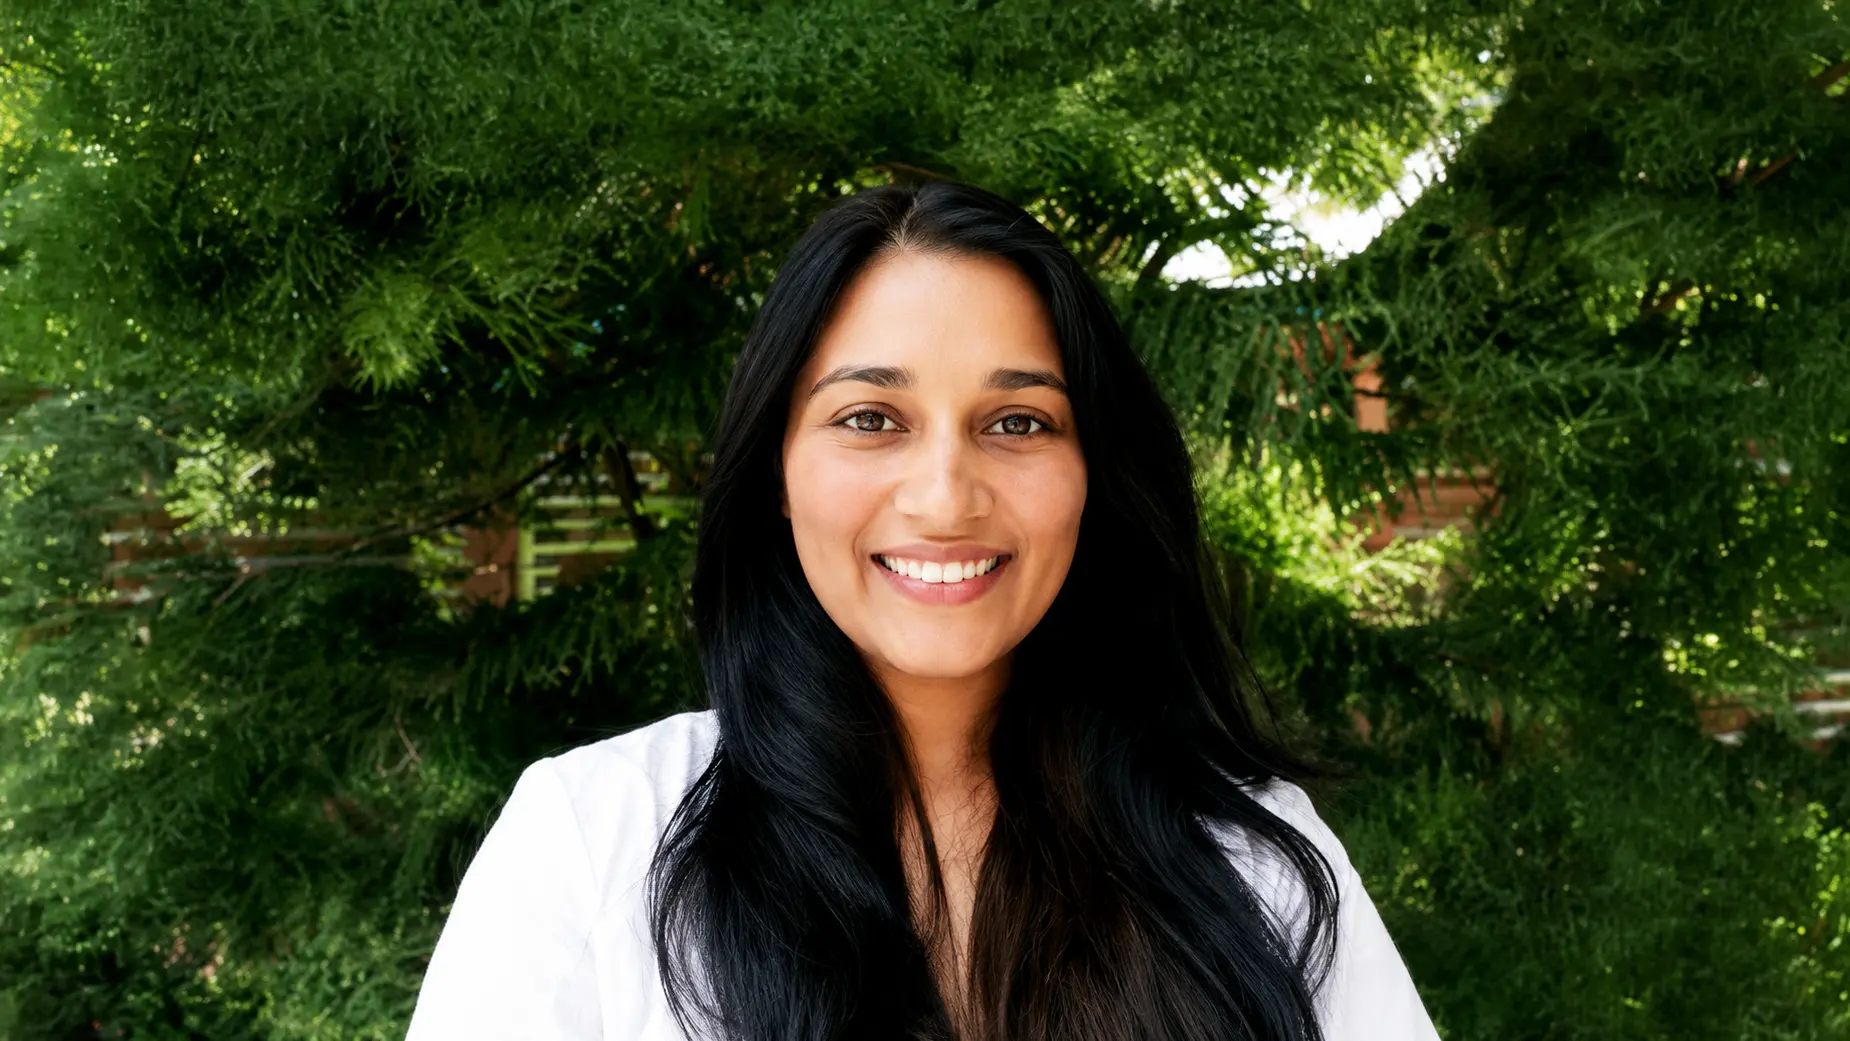
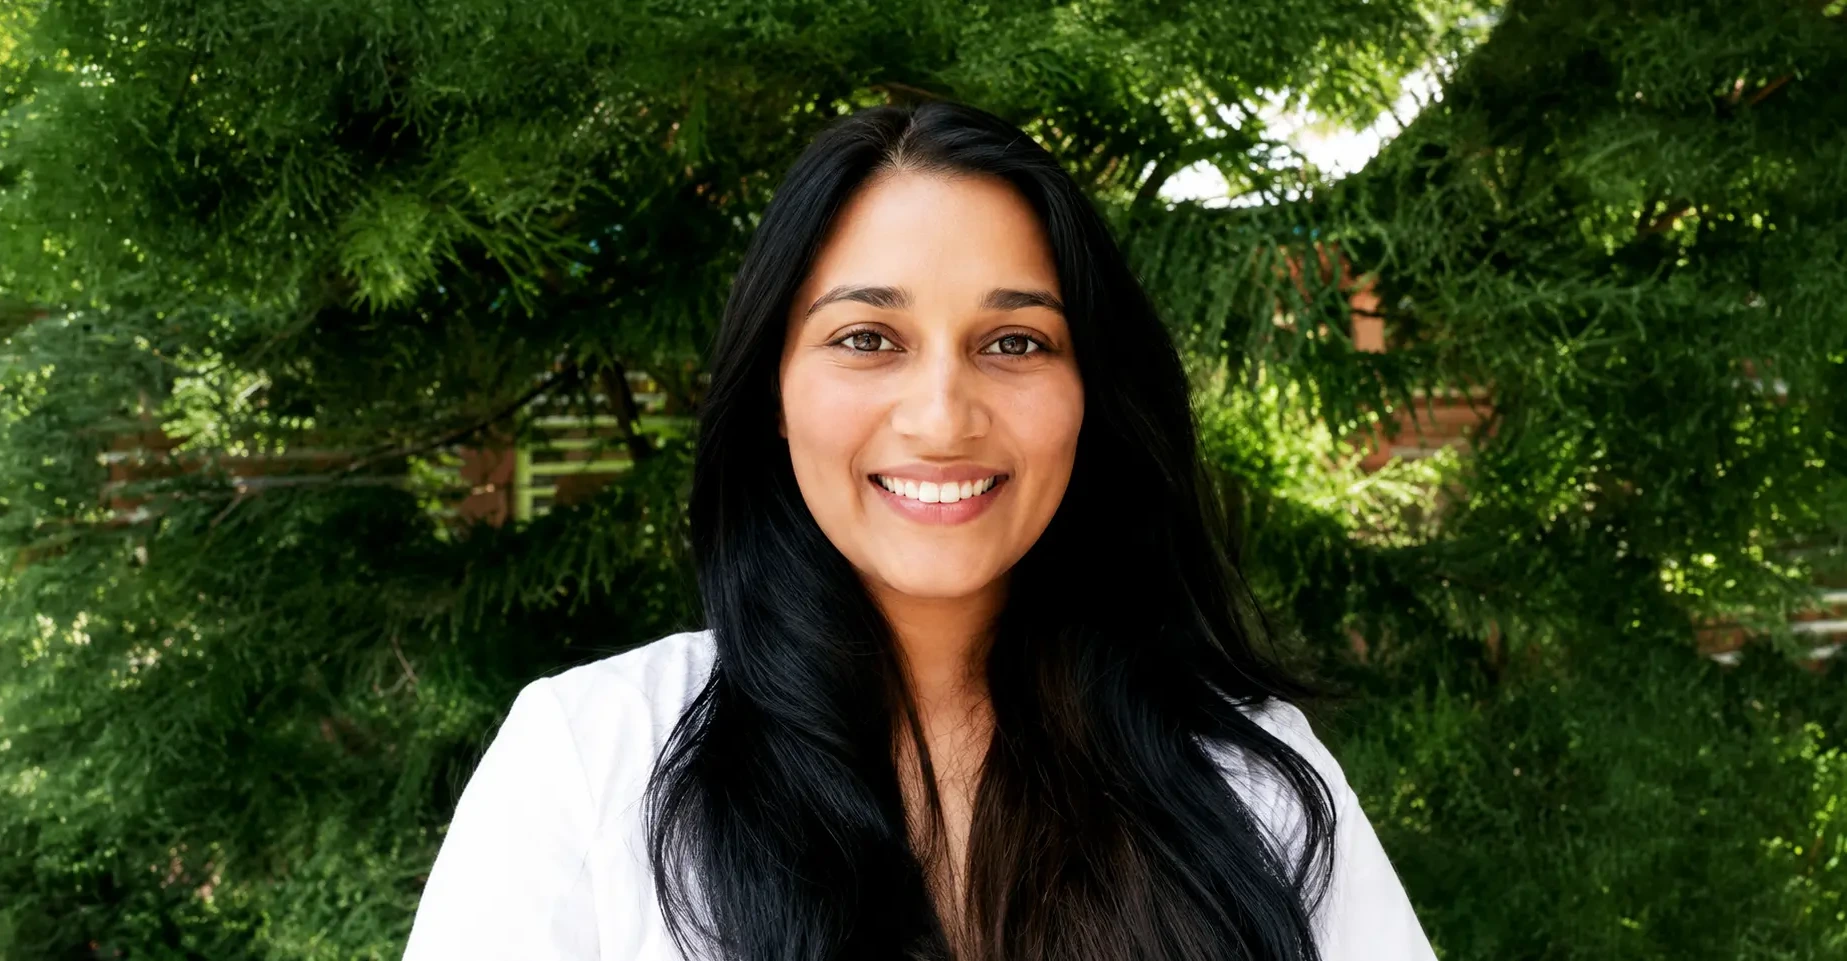
feat: add new images and update portfolio item names for consistency

diff --git a/src/app/(frontend)/page.tsx b/src/app/(frontend)/page.tsx
@@ -177,7 +177,10 @@ export default async function HomePage() {
         </section>
 
         {/* Section: What ACT does */}
-        <section className="py-12 relative overflow-hidden rounded-t-[32px] bg-white z-10 -mt-8" id="about">
+        <section
+          className="py-12 relative overflow-hidden rounded-t-[32px] bg-white z-10 -mt-8"
+          id="about"
+        >
           <div className="relative z-10 w-full">
             <div className="section-title-wrapper mb-12 text-center max-w-3xl mx-auto">
               <h2 className="font-title text-3xl font-extrabold text-gray-900 tracking-tight">
@@ -194,7 +197,7 @@ export default async function HomePage() {
             </div>
 
             <div className="grid grid-cols-3 gap-6 px-8 py-4 max-[1024px]:hidden">
-              {/* Card 1: Risk Capital */}
+              {/* Card 1: Capital */}
               <div className="act-card group relative rounded-2xl overflow-hidden shadow-sm h-[340px] bg-white border border-gray-100 cursor-pointer transition-all duration-500 hover:bg-[linear-gradient(140deg,#3F1E8C_0%,#7A1C9E_45%,#B30B7E_100%)] hover:border-transparent hover:shadow-lg">
                 {/* Default State: Centered circle image and title */}
                 <div className="absolute inset-0 flex flex-col items-center justify-center gap-4 p-6 text-center transition-all duration-300 group-hover:opacity-0 group-hover:scale-95">
@@ -235,66 +238,14 @@ export default async function HomePage() {
                 </div>
 
                 {/* Hover State: Curved top-left image and white description text below */}
-                <div className="absolute inset-0 opacity-0 group-hover:opacity-100 transition-opacity duration-300 flex flex-col justify-end p-7 text-center">
+                <div className="absolute inset-0 opacity-0 group-hover:opacity-100 transition-opacity duration-300 flex flex-col justify-end p-5 text-center">
                   <div
-                    className="absolute top-[-10%] left-[-10%] w-[120%] h-[75%] bg-[#FAF9FF]/10 flex items-center justify-center"
+                    className="absolute top-0 left-0 w-full h-full bg-cover bg-center"
                     style={{
-                      clipPath: 'ellipse(85% 75% at 15% 15%)',
+                      backgroundImage: `url('/images/connection-transformed.webp')`,
+                      clipPath: 'ellipse(80% 70% at 0% 0%)',
                     }}
-                  >
-                    <div className="absolute top-[20%] left-[20%] text-white/20">
-                      <svg width="80" height="80" viewBox="0 0 90 90" fill="none">
-                        <circle cx="45" cy="18" r="7" fill="currentColor" opacity="0.3" />
-                        <circle
-                          cx="45"
-                          cy="18"
-                          r="7"
-                          fill="currentColor"
-                          opacity="0.15"
-                          stroke="currentColor"
-                          strokeWidth="1.5"
-                        />
-                        <circle cx="18" cy="55" r="7" fill="currentColor" opacity="0.3" />
-                        <circle
-                          cx="18"
-                          cy="55"
-                          r="7"
-                          fill="currentColor"
-                          opacity="0.15"
-                          stroke="currentColor"
-                          strokeWidth="1.5"
-                        />
-                        <circle cx="72" cy="55" r="7" fill="currentColor" opacity="0.3" />
-                        <circle
-                          cx="72"
-                          cy="55"
-                          r="7"
-                          fill="currentColor"
-                          opacity="0.15"
-                          stroke="currentColor"
-                          strokeWidth="1.5"
-                        />
-                        <line
-                          x1="45"
-                          y1="25"
-                          x2="18"
-                          y2="48"
-                          stroke="currentColor"
-                          strokeWidth="1.2"
-                          opacity="0.25"
-                        />
-                        <line
-                          x1="45"
-                          y1="25"
-                          x2="72"
-                          y2="48"
-                          stroke="currentColor"
-                          strokeWidth="1.2"
-                          opacity="0.25"
-                        />
-                      </svg>
-                    </div>
-                  </div>
+                  />
                   <p className="text-white/95 text-xs sm:text-sm leading-relaxed font-body z-10">
                     Facilitating connections and partnerships across the ecosystem between
                     start-ups, corporate partners, non-profits, domain experts, and government.
@@ -315,47 +266,14 @@ export default async function HomePage() {
                 </div>
 
                 {/* Hover State: Curved top-left image and white description text below */}
-                <div className="absolute inset-0 opacity-0 group-hover:opacity-100 transition-opacity duration-300 flex flex-col justify-end p-7 text-center">
+                <div className="absolute inset-0 opacity-0 group-hover:opacity-100 transition-opacity duration-300 flex flex-col justify-end p-5 text-center">
                   <div
-                    className="absolute top-[-10%] left-[-10%] w-[120%] h-[75%] bg-[#FAF9FF]/10 flex items-center justify-center"
+                    className="absolute top-0 left-0 w-full h-full bg-cover bg-center"
                     style={{
-                      clipPath: 'ellipse(85% 75% at 15% 15%)',
+                      backgroundImage: `url('/images/collective-transformed.webp')`,
+                      clipPath: 'ellipse(80% 70% at 0% 0%)',
                     }}
-                  >
-                    <div className="absolute top-[20%] left-[20%] text-white/20">
-                      <svg width="80" height="80" viewBox="0 0 90 90" fill="none">
-                        <circle cx="45" cy="12" r="7" fill="currentColor" opacity="0.3" />
-                        <circle
-                          cx="45"
-                          cy="12"
-                          r="7"
-                          fill="currentColor"
-                          opacity="0.15"
-                          stroke="currentColor"
-                          strokeWidth="1.5"
-                        />
-                        <circle cx="16" cy="38" r="6" fill="currentColor" opacity="0.25" />
-                        <circle
-                          cx="16"
-                          cy="38"
-                          r="6"
-                          fill="currentColor"
-                          opacity="0.1"
-                          stroke="currentColor"
-                          strokeWidth="1.2"
-                        />
-                        <line
-                          x1="45"
-                          y1="19"
-                          x2="16"
-                          y2="32"
-                          stroke="currentColor"
-                          strokeWidth="1.2"
-                          opacity="0.25"
-                        />
-                      </svg>
-                    </div>
-                  </div>
+                  />
                   <p className="text-white/95 text-xs sm:text-sm leading-relaxed font-body z-10">
                     Building collaborative groups focused on solving systemic social problems in
                     education, healthcare, environment, and women&apos;s empowerment.
@@ -656,7 +574,6 @@ export default async function HomePage() {
           <div className="w-full mx-auto bg-gradient-to-r from-[#1A237E] via-[#4A148C] to-[#B30B7E] px-16 py-20 text-white max-[1024px]:px-8 max-[1024px]:py-14 shadow-lg rounded-none">
             <div className="max-w-[1180px] mx-auto mb-12">
               <div className="grid grid-cols-1 md:grid-cols-[1.15fr_1fr] gap-16 items-center">
-                
                 {/* Left Column: Map + Description */}
                 <div className="relative w-full flex flex-col items-start text-left gap-6">
                   <div className="w-full max-w-[460px] mx-auto md:mx-0">
@@ -677,7 +594,6 @@ export default async function HomePage() {
 
                 {/* Right Column: Statistics Grid */}
                 <div className="flex flex-col gap-4 w-full">
-                  
                   {/* Card 1: 58 */}
                   <div className="bg-white/5 border border-white/10 rounded-2xl p-6 flex items-center gap-6 text-left">
                     <div className="font-title text-5xl font-extrabold text-white min-w-[70px]">
@@ -734,7 +650,6 @@ export default async function HomePage() {
                     </div>
                   </div>
                 </div>
-
               </div>
             </div>
           </div>

diff --git a/src/components/InteractivePortfolio.tsx b/src/components/InteractivePortfolio.tsx
@@ -162,7 +162,7 @@ const mockPortfolios: PortfolioItem[] = [
   // Education Sector (as shown in design)
   {
     id: 'edu-1',
-    name: 'adalat ai',
+    name: 'Adalat AI',
     sectors: 'education',
     logo: '/images/company-logos/Adalat_AI_logos.svg',
     website: '#',
@@ -176,14 +176,14 @@ const mockPortfolios: PortfolioItem[] = [
   },
   {
     id: 'edu-3',
-    name: 'CG',
+    name: 'ConveGenius',
     sectors: 'education',
     logo: '/images/company-logos/cg.png',
     website: '#',
   },
   {
     id: 'edu-4',
-    name: 'Curious',
+    name: 'Curious Jr',
     sectors: 'education',
     logo: '/images/company-logos/curious.png',
     website: '#',
@@ -239,14 +239,14 @@ const mockPortfolios: PortfolioItem[] = [
   },
   {
     id: 'edu-12',
-    name: 'Pocket Learning',
+    name: 'Rocket Learning',
     sectors: 'education',
     logo: '/images/company-logos/5-logo.png',
     website: '#',
   },
   {
     id: 'edu-13',
-    name: 'Supernan',
+    name: 'Super Nan',
     sectors: 'education',
     logo: '/images/company-logos/6-logo.png',
     website: '#',
@@ -267,7 +267,7 @@ const mockPortfolios: PortfolioItem[] = [
   },
   {
     id: 'edu-16',
-    name: 'VAll',
+    name: 'V-All',
     sectors: 'education',
     logo: '/images/company-logos/logoVAll.png',
     website: '#',
@@ -281,14 +281,14 @@ const mockPortfolios: PortfolioItem[] = [
   },
   {
     id: 'edu-18',
-    name: 'Vopa',
+    name: 'VOPA',
     sectors: 'education',
     logo: '/images/company-logos/9-logo.png',
     website: '#',
   },
   {
     id: 'edu-19',
-    name: 'YuWaah',
+    name: 'YuWaah NXT',
     sectors: 'education',
     logo: '/images/company-logos/Logo-scaled.png',
     website: '#',
@@ -297,7 +297,7 @@ const mockPortfolios: PortfolioItem[] = [
   // Environment Sector
   {
     id: 'env-1',
-    name: 'CG',
+    name: 'ConveGenius',
     sectors: 'environment',
     logo: '/images/company-logos/cg.png',
     website: '#',
@@ -318,7 +318,7 @@ const mockPortfolios: PortfolioItem[] = [
   },
   {
     id: 'env-4',
-    name: 'YuWaah',
+    name: 'YuWaah NXT',
     sectors: 'environment',
     logo: '/images/company-logos/Logo-scaled.png',
     website: '#',
@@ -327,7 +327,7 @@ const mockPortfolios: PortfolioItem[] = [
   // Health Sector
   {
     id: 'hea-1',
-    name: 'adalat ai',
+    name: 'Adalat AI',
     sectors: 'health',
     logo: '/images/company-logos/Adalat_AI_logos.svg',
     website: '#',
@@ -341,7 +341,7 @@ const mockPortfolios: PortfolioItem[] = [
   },
   {
     id: 'hea-3',
-    name: 'VAll',
+    name: 'V-All',
     sectors: 'health',
     logo: '/images/company-logos/logoVAll.png',
     website: '#',
@@ -357,14 +357,14 @@ const mockPortfolios: PortfolioItem[] = [
   },
   {
     id: 'wom-2',
-    name: 'Supernan',
+    name: 'Super Nan',
     sectors: 'women',
     logo: '/images/company-logos/6-logo.png',
     website: '#',
   },
   {
     id: 'wom-3',
-    name: 'Pocket Learning',
+    name: 'Rocket Learning',
     sectors: 'women',
     logo: '/images/company-logos/5-logo.png',
     website: '#',
@@ -392,7 +392,10 @@ export const InteractivePortfolio: React.FC<InteractivePortfolioProps> = ({
   return (
     <div className="flex flex-col w-full">
       {/* Portfolio proof Section Wrapper */}
-      <section className="bg-[#F8F4FF] border border-gray-100/50 px-8 pt-12 pb-16 max-[640px]:px-4 relative z-10 rounded-b-[32px]" id="portfolio">
+      <section
+        className="bg-[#F8F4FF] border border-gray-100/50 px-8 pt-12 pb-16 max-[640px]:px-4 relative z-10 rounded-b-[32px]"
+        id="portfolio"
+      >
         <div className="section-title-wrapper mb-8">
           <h2 className="font-title text-3xl font-extrabold text-gray-900 text-center tracking-tight">
             Portfolio{' '}

diff --git a/src/components/InteractiveStories.tsx b/src/components/InteractiveStories.tsx
@@ -67,7 +67,7 @@ export const InteractiveStories: React.FC = () => {
 
       {/* Main Carousel Wrapper centered and constrained */}
       <div className="mx-auto max-w-5xl px-6 relative">
-        <div className="relative w-full h-[420px] max-[640px]:h-[340px] rounded-[28px] overflow-hidden shadow-md group">
+        <div className="relative w-full h-[520px] max-[640px]:h-[340px] rounded-[28px] overflow-hidden shadow-md group">
           {/* Slide Image Background */}
           <div className="absolute inset-0 z-0">
             <img
@@ -116,7 +116,7 @@ export const InteractiveStories: React.FC = () => {
           </button>
 
           {/* Slide Text Content overlaid on top of image with arrow clearance */}
-          <div className="pointer-events-none absolute inset-0 z-20 flex flex-col items-center justify-center gap-4 text-center px-16 sm:px-24 md:px-32">
+          <div className="pointer-events-none absolute inset-0 z-20 flex flex-col items-center justify-end gap-4 text-center py-8 px-16 sm:px-24 md:px-32">
             {current.author && (
               <div className="flex flex-col gap-1">
                 <h3 className="font-title text-2xl md:text-4xl font-black text-white leading-tight drop-shadow-sm">
